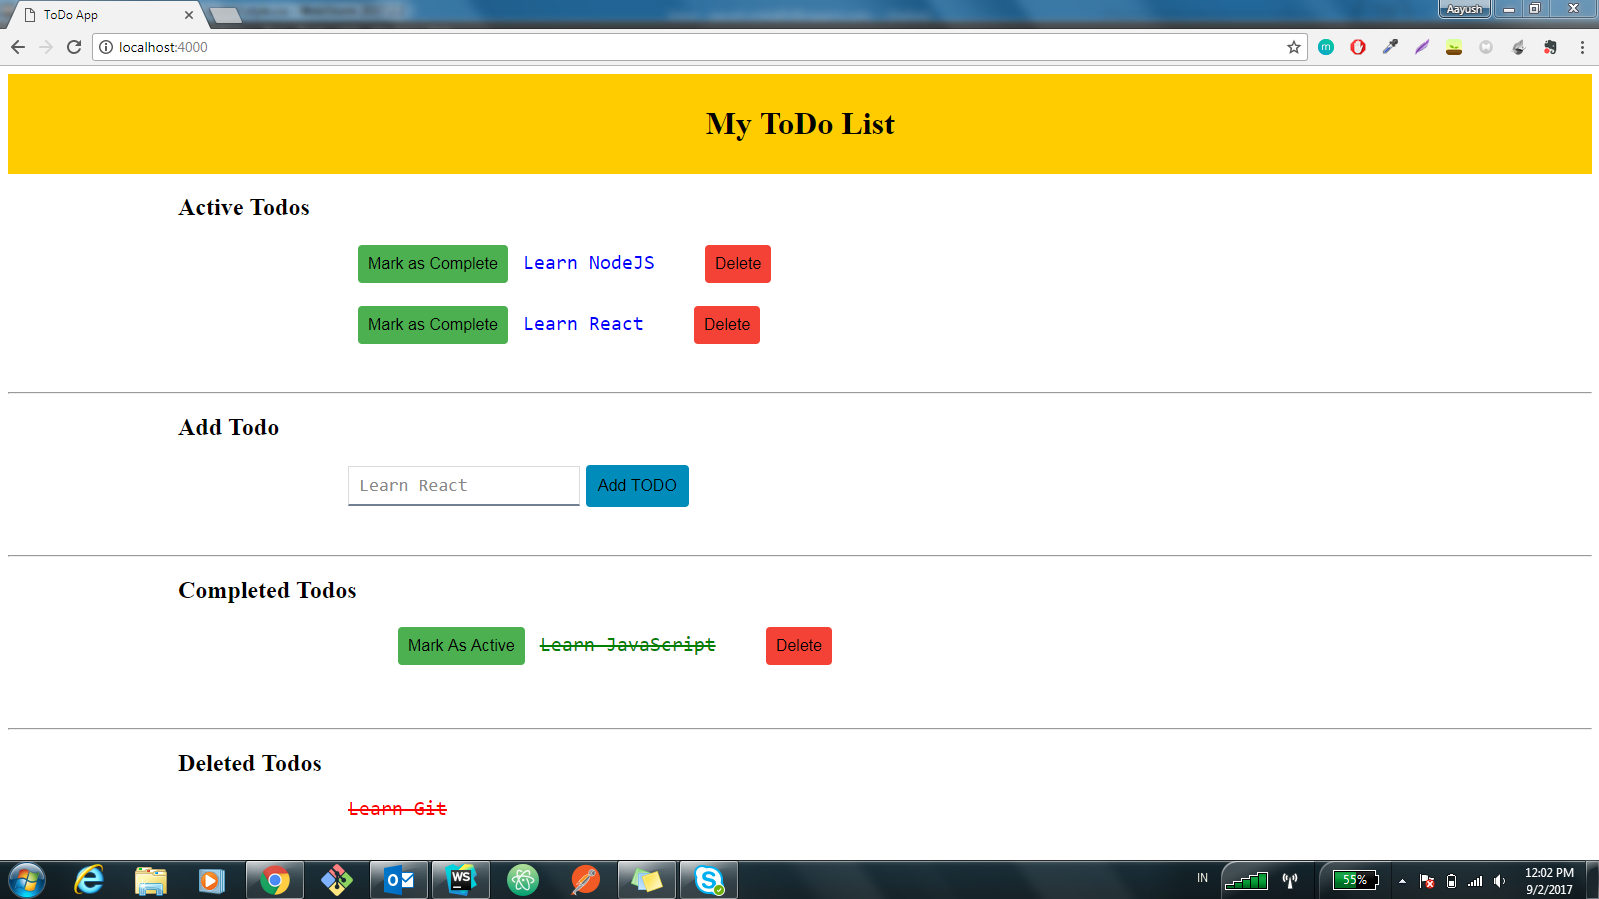
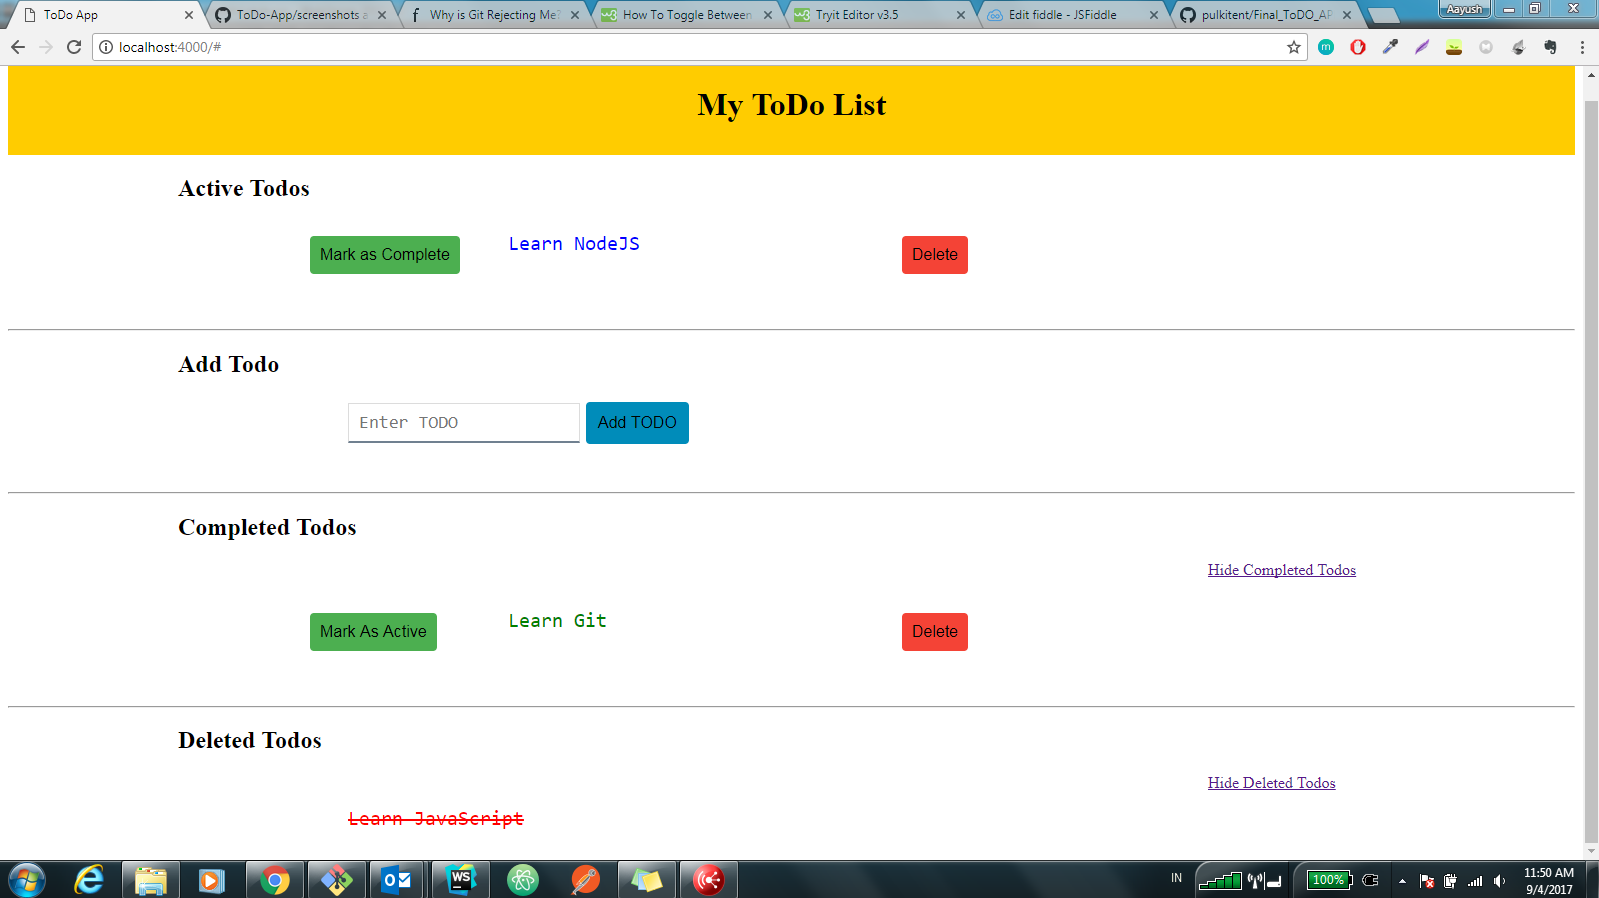
small changes

diff --git a/public/script.js b/public/script.js
@@ -7,6 +7,34 @@ const DELETED_TODO = "deleted_todo";
 
 window.onload = getTodosAJAX();
 
+function hidecomplete() {
+    var x = document.getElementById('completed_todo');
+    var p = document.getElementById("toggle_complete");
+    if (x.style.display === 'none') {
+
+        x.style.display = 'block';
+        p.innerHTML = "Hide Completed Todos";
+    } else {
+        x.style.display = 'none';
+
+        p.innerHTML = "Show Completed Todos"
+    }
+}
+
+function hidedeleted() {
+    var x = document.getElementById('deleted_todo');
+    var p = document.getElementById("toggle_delete");
+    if (x.style.display === 'none') {
+
+        x.style.display = 'block';
+        p.innerHTML = "Hide Deleted Todos";
+    } else {
+        x.style.display = 'none';
+
+        p.innerHTML = "Show Deleted Todos"
+    }
+}
+
 function add_todo_elements(id, todos_data_json) {
 
   var parent = document.getElementById(id); // get elemnt of div to print the json in div section

diff --git a/public/index.html b/public/index.html
@@ -25,13 +25,15 @@
 <br>
 <hr>
 <h2>Completed Todos</h2>
-<div id="completed_todo">
+<a href = "#" id = "toggle_complete" onclick=" hidecomplete() ">Hide Completed Todos</a>
+<div id="completed_todo" >
 
 </div>
 <br>
 <br>
 <hr>
 <h2>Deleted Todos</h2>
+<a href = "#" id = "toggle_delete" onclick=" hidedeleted()">Hide Deleted Todos</a>
 <div id="deleted_todo">
 </div>
 <script src="/script.js" type="text/javascript"></script>

diff --git a/public/style.css b/public/style.css
@@ -66,6 +66,15 @@ input[type="button"]{
   font-family: monospace;
 }
 
+#toggle_complete{
+  margin-left: 1200px
+}
+
+
+#toggle_delete{
+  margin-left: 1200px
+}
+
 .completecssbutton{
   background-color: #4CAF50; /* Green */
   border: none;
@@ -126,7 +135,7 @@ div.todoStatusACTIVE {
 
 div.todoStatusCOMPLETE {
   color: green;
-  text-decoration: line-through;
+
 }
 
 div.todoStatusDELETED {
